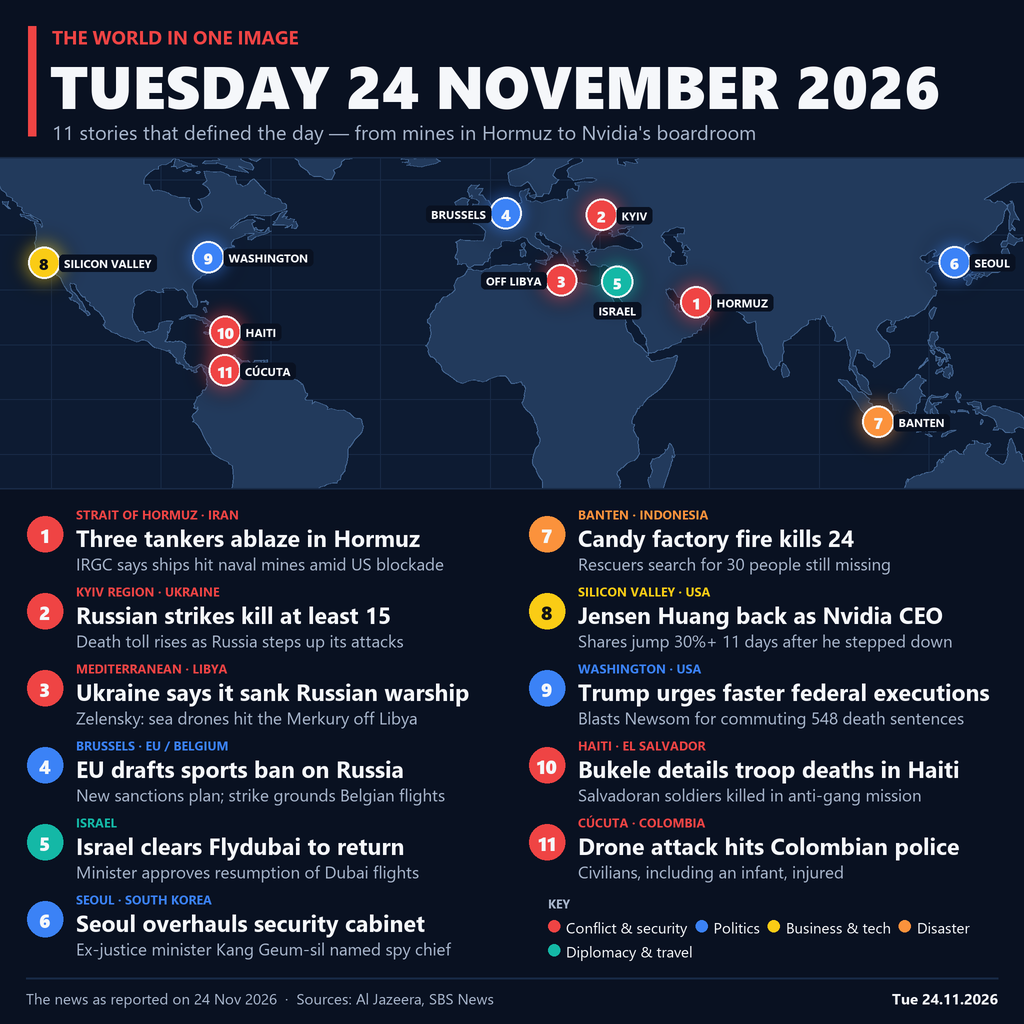
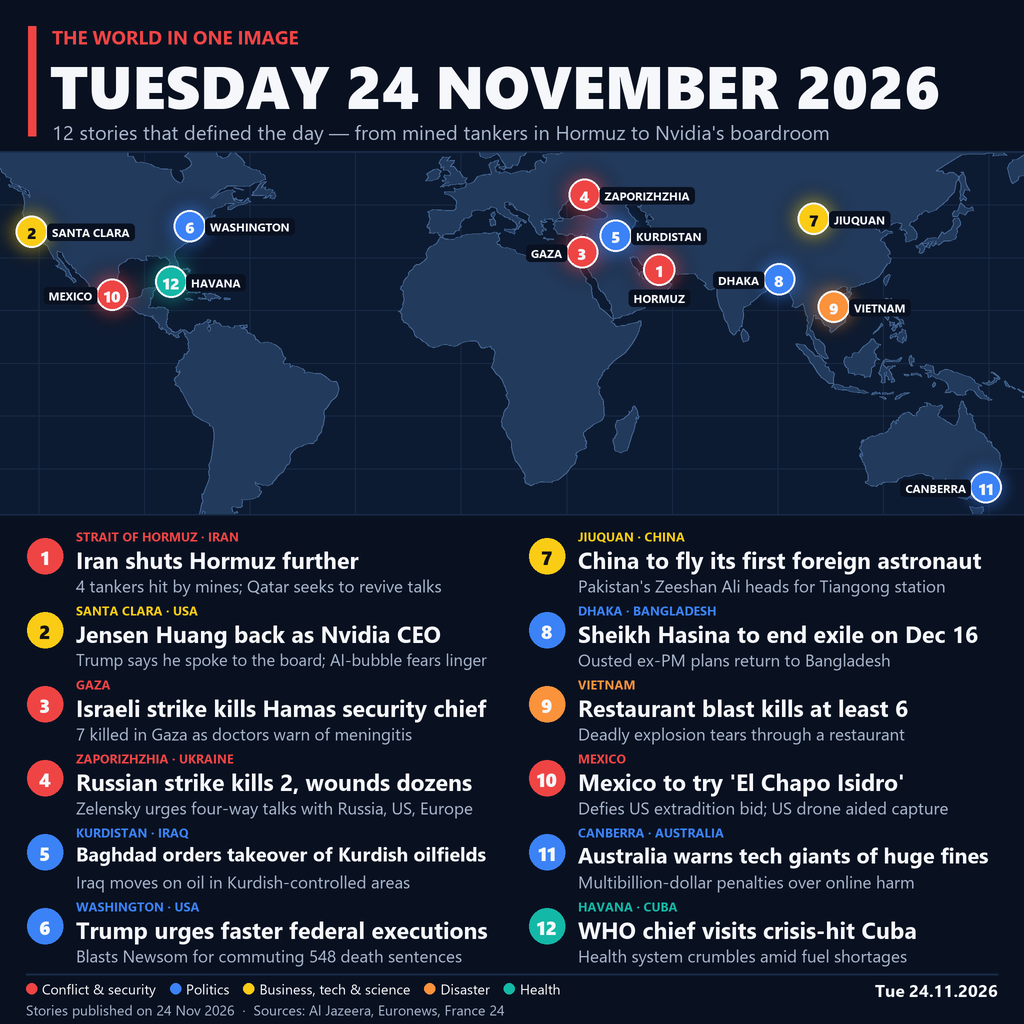
Version 2: 12 stories published on 24 November 2026

Changed region(s): [[0.0, 0.125, 1.0, 1.0]]

diff --git a/tools/make_image.py b/tools/make_image.py
@@ -29,42 +29,45 @@ ACCENT = (239, 68, 68)
 CAT = {
     "conflict": ((239, 68, 68), "Conflict & security"),
     "politics": ((59, 130, 246), "Politics"),
-    "economy": ((250, 204, 21), "Business & tech"),
+    "economy": ((250, 204, 21), "Business, tech & science"),
     "disaster": ((251, 146, 60), "Disaster"),
-    "travel": ((20, 184, 166), "Diplomacy & travel"),
+    "travel": ((20, 184, 166), "Health"),
 }
 
 # (number, category, lon, lat, map label, label side, place tag, headline, detail)
+# Version 2: every story was published on 24 November 2026.
 STORIES = [
-    (1, "conflict", 56.4, 26.6, "HORMUZ", "r", "STRAIT OF HORMUZ \u00b7 IRAN",
-     "Three tankers ablaze in Hormuz", "IRGC says ships hit naval mines amid US blockade"),
-    (2, "conflict", 30.5, 50.45, "KYIV", "r", "KYIV REGION \u00b7 UKRAINE",
-     "Russian strikes kill at least 15", "Death toll rises as Russia steps up its attacks"),
-    (3, "conflict", 19.5, 32.6, "OFF LIBYA", "l", "MEDITERRANEAN \u00b7 LIBYA",
-     "Ukraine says it sank Russian warship", "Zelensky: sea drones hit the Merkury off Libya"),
-    (4, "politics", 4.35, 50.85, "BRUSSELS", "l", "BRUSSELS \u00b7 EU / BELGIUM",
-     "EU drafts sports ban on Russia", "New sanctions plan; strike grounds Belgian flights"),
-    (5, "travel", 34.8, 32.1, "ISRAEL", "b", "ISRAEL",
-     "Israel clears Flydubai to return", "Minister approves resumption of Dubai flights"),
-    (6, "politics", 127.0, 37.55, "SEOUL", "r", "SEOUL \u00b7 SOUTH KOREA",
-     "Seoul overhauls security cabinet", "Ex-justice minister Kang Geum-sil named spy chief"),
-    (7, "disaster", 106.15, -6.12, "BANTEN", "r", "BANTEN \u00b7 INDONESIA",
-     "Candy factory fire kills 24", "Rescuers search for 30 people still missing"),
-    (8, "economy", -121.96, 37.37, "SILICON VALLEY", "r", "SILICON VALLEY \u00b7 USA",
-     "Jensen Huang back as Nvidia CEO", "Shares jump 30%+ 11 days after he stepped down"),
-    (9, "politics", -77.04, 38.9, "WASHINGTON", "r", "WASHINGTON \u00b7 USA",
+    (1, "conflict", 56.4, 26.6, "HORMUZ", "b", "STRAIT OF HORMUZ · IRAN",
+     "Iran shuts Hormuz further", "4 tankers hit by mines; Qatar seeks to revive talks"),
+    (2, "economy", -121.96, 37.37, "SANTA CLARA", "r", "SANTA CLARA · USA",
+     "Jensen Huang back as Nvidia CEO", "Trump says he spoke to the board; AI-bubble fears linger"),
+    (3, "conflict", 34.45, 31.5, "GAZA", "l", "GAZA",
+     "Israeli strike kills Hamas security chief", "7 killed in Gaza as doctors warn of meningitis"),
+    (4, "conflict", 35.14, 47.84, "ZAPORIZHZHIA", "r", "ZAPORIZHZHIA · UKRAINE",
+     "Russian strike kills 2, wounds dozens", "Zelensky urges four-way talks with Russia, US, Europe"),
+    (5, "politics", 44.0, 36.2, "KURDISTAN", "r", "KURDISTAN · IRAQ",
+     "Baghdad orders takeover of Kurdish oilfields", "Iraq moves on oil in Kurdish-controlled areas"),
+    (6, "politics", -77.04, 38.9, "WASHINGTON", "r", "WASHINGTON · USA",
      "Trump urges faster federal executions", "Blasts Newsom for commuting 548 death sentences"),
-    (10, "conflict", -72.34, 18.54, "HAITI", "r", "HAITI \u00b7 EL SALVADOR",
-     "Bukele details troop deaths in Haiti", "Salvadoran soldiers killed in anti-gang mission"),
-    (11, "conflict", -72.5, 7.9, "C\u00daCUTA", "r", "C\u00daCUTA \u00b7 COLOMBIA",
-     "Drone attack hits Colombian police", "Civilians, including an infant, injured"),
+    (7, "economy", 100.3, 40.96, "JIUQUAN", "r", "JIUQUAN · CHINA",
+     "China to fly its first foreign astronaut", "Pakistan's Zeeshan Ali heads for Tiangong station"),
+    (8, "politics", 90.4, 23.8, "DHAKA", "l", "DHAKA · BANGLADESH",
+     "Sheikh Hasina to end exile on Dec 16", "Ousted ex-PM plans return to Bangladesh"),
+    (9, "disaster", 106.0, 16.0, "VIETNAM", "r", "VIETNAM",
+     "Restaurant blast kills at least 6", "Deadly explosion tears through a restaurant"),
+    (10, "conflict", -99.13, 19.43, "MEXICO", "l", "MEXICO",
+     "Mexico to try 'El Chapo Isidro'", "Defies US extradition bid; US drone aided capture"),
+    (11, "politics", 149.13, -35.28, "CANBERRA", "l", "CANBERRA · AUSTRALIA",
+     "Australia warns tech giants of huge fines", "Multibillion-dollar penalties over online harm"),
+    (12, "travel", -82.37, 23.11, "HAVANA", "r", "HAVANA · CUBA",
+     "WHO chief visits crisis-hit Cuba", "Health system crumbles amid fuel shortages"),
 ]
 
 # Map window (equirectangular)
-MAP_TOP, MAP_BOTTOM = 158, 488
-LON0, LON1 = -134.0, 146.0
+MAP_TOP, MAP_BOTTOM = 152, 514
+LON0, LON1 = -131.0, 160.0
 PX_PER_DEG = W / (LON1 - LON0)
-LAT_TOP = 66.0
+LAT_TOP = 60.0
 
 
 def font(name, size):
@@ -92,7 +95,7 @@ def draw_map(img):
     for lon in range(-120, 151, 30):
         x, _ = proj(lon, 0)
         d.line([x, MAP_TOP * S, x, MAP_BOTTOM * S], fill=GRID, width=S)
-    for lat in range(-15, 66, 15):
+    for lat in range(-30, 61, 15):
         _, y = proj(0, lat)
         if MAP_TOP * S <= y <= MAP_BOTTOM * S:
             d.line([0, y, W * S, y], fill=GRID, width=S)
@@ -168,14 +171,14 @@ def draw_header(img):
     d.text((50 * S, 44 * S), "TUESDAY 24 NOVEMBER 2026", font=font("seguibl.ttf", 60),
            fill=WHITE)
     d.text((52 * S, 118 * S),
-           "11 stories that defined the day \u2014 from mines in Hormuz to Nvidia's boardroom",
+           "12 stories that defined the day \u2014 from mined tankers in Hormuz to Nvidia's boardroom",
            font=font("segoeui.ttf", 20), fill=MUTED)
 
 
 def draw_list(img):
     d = ImageDraw.Draw(img)
     cols = [(26, STORIES[:6]), (528, STORIES[6:])]
-    top, row_h, col_w = 506, 77, 470
+    top, row_h, col_w = 528, 74, 474
     f_tag = font("segoeuib.ttf", 12.5)
     f_num = font("seguibl.ttf", 19)
     for x0, items in cols:
@@ -194,28 +197,23 @@ def draw_list(img):
                    fill=WHITE)
             d.text((tx, (y0 + 46) * S), sub, font=fit(d, sub, "segoeui.ttf", 17, col_w - 56),
                    fill=MUTED)
-    # legend in the free slot of the right column
-    y0 = top + 5 * row_h + 4
-    d.text((548 * S, y0 * S), "KEY", font=f_tag, fill=MUTED)
-    f_leg = font("segoeui.ttf", 15)
-    x, y = 548, y0 + 22
-    for key in ["conflict", "politics", "economy", "disaster", "travel"]:
-        col, name = CAT[key]
-        d.ellipse([x * S, (y + 3) * S, (x + 12) * S, (y + 15) * S], fill=col)
-        d.text(((x + 18) * S, y * S), name, font=f_leg, fill=WHITE)
-        x += 26 + d.textlength(name, font=f_leg) / S
-        if x > 900:
-            x, y = 548, y + 24
 
 
 def draw_footer(img):
     d = ImageDraw.Draw(img)
-    d.line([26 * S, 978 * S, (W - 26) * S, 978 * S], fill=GRID, width=2 * S)
-    d.text((26 * S, 988 * S),
-           "The news as reported on 24 Nov 2026  \u00b7  Sources: Al Jazeera, SBS News",
-           font=font("segoeui.ttf", 15), fill=MUTED)
-    d.text(((W - 26) * S, 988 * S), "Tue 24.11.2026", font=font("segoeuib.ttf", 15),
-           fill=WHITE, anchor="ra")
+    d.line([26 * S, 974 * S, (W - 26) * S, 974 * S], fill=GRID, width=2 * S)
+    f_leg = font("segoeui.ttf", 14)
+    x, y = 26, 979
+    for key in ["conflict", "politics", "economy", "disaster", "travel"]:
+        col, name = CAT[key]
+        d.ellipse([x * S, (y + 4) * S, (x + 11) * S, (y + 15) * S], fill=col)
+        d.text(((x + 16) * S, y * S), name, font=f_leg, fill=WHITE)
+        x += 30 + d.textlength(name, font=f_leg) / S
+    d.text((26 * S, 1000 * S),
+           "Stories published on 24 Nov 2026  ·  Sources: Al Jazeera, Euronews, France 24",
+           font=font("segoeui.ttf", 14), fill=MUTED)
+    d.text(((W - 26) * S, 990 * S), "Tue 24.11.2026", font=font("segoeuib.ttf", 17),
+           fill=WHITE, anchor="rm")
 
 
 def main():

diff --git a/README.md b/README.md
@@ -4,11 +4,11 @@
 [![rank](https://make.fun/badge/news-image-20261124/Daffaabinaya/world-news-map-20261124/rank.svg)](https://make.fun/bounty/news-image-20261124/leaderboard?utm_source=github&utm_medium=readme&utm_campaign=news-image-20261124)
 [![reward](https://make.fun/badge/news-image-20261124/Daffaabinaya/world-news-map-20261124/reward.svg)](https://make.fun/bounty/news-image-20261124?utm_source=github&utm_medium=readme&utm_campaign=news-image-20261124)
 
-The world's news of Tuesday 24 November 2026 in one 1024×1024 image: a world-map infographic with 11 numbered, colour-coded stories (from tankers ablaze in the Strait of Hormuz to Jensen Huang's return at Nvidia), each pinned to its location and summed up in a short headline.
+The world's news of Tuesday 24 November 2026 in one 1024×1024 image: a world-map infographic with 12 numbered, colour-coded stories published that day (from mined tankers in the Strait of Hormuz to Jensen Huang's return at Nvidia), each pinned to its location and summed up in a short headline.
 
 ![World news, 24 November 2026](entry.png)
 
-`main.py` (Python 3.13, standard library only, no network, deterministic) copies the committed `entry.png` to `/output/entry.png`. The image is drawn by `tools/make_image.py` (Pillow, Windows system fonts) from the Natural Earth 1:110m land outline (public domain). Sources for the stories: Al Jazeera and SBS News.
+`main.py` (Python 3.13, standard library only, no network, deterministic) copies the committed `entry.png` to `/output/entry.png`. The image is drawn by `tools/make_image.py` (Pillow, Windows system fonts) from the Natural Earth 1:110m land outline (public domain). Sources for the stories: Al Jazeera, Euronews and France 24.
 
 ## Run it
 
